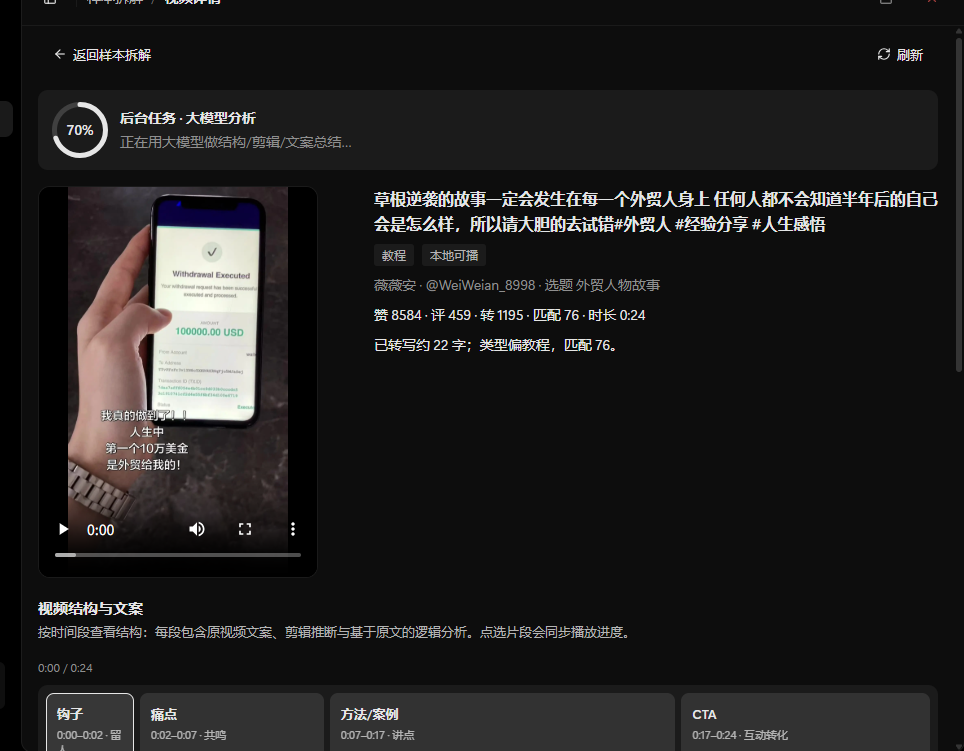
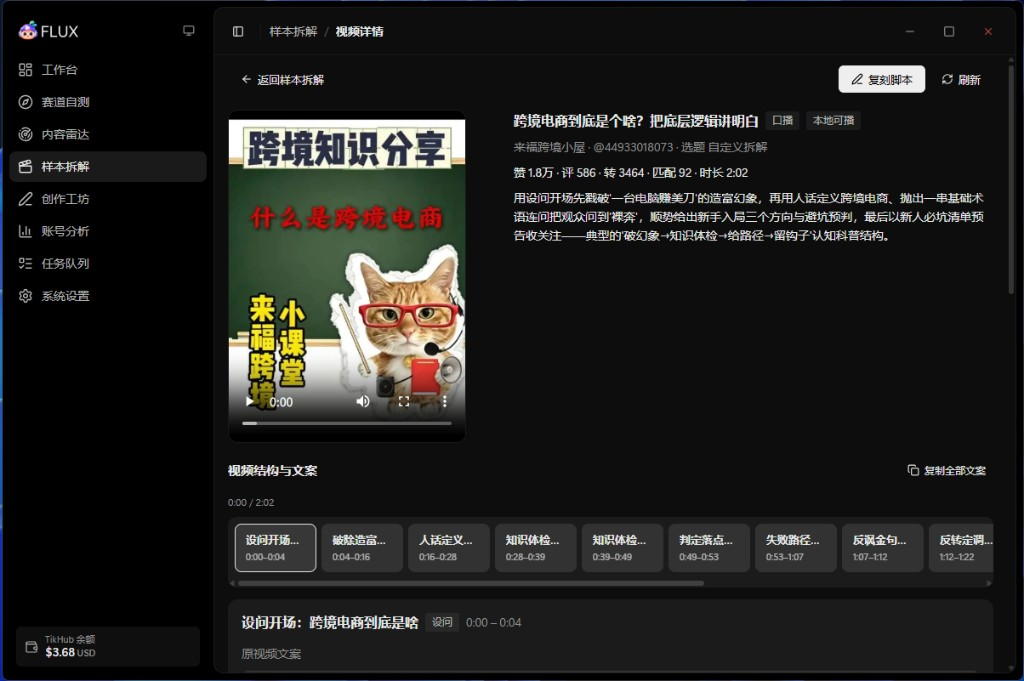
Replace README screenshots with full product UI captures.
Use complete workbench, track, dissect, and workshop shots provided by the user.

diff --git a/README.md b/README.md
@@ -38,29 +38,29 @@ Flux 帮助你把「账号理解 → 赛道判断 → 内容监听 → 选题沉
 
 ## 软件截图
 
-### 内容雷达
+### 工作台
 
-监听对标账号与平台热榜，按「全部 / 高表现 / 新作 / 平台热榜」筛选，并可直接拆解。
+汇总选题、自测、拆解进度与近作表现，一眼看到下一步该做什么。
 
-![内容雷达](docs/screenshots/radar.png)
-
-监听规则可配置高表现阈值、新作窗口、热榜关键词与自动同步。
-
-![监听规则](docs/screenshots/radar-rules.png)
+![工作台](docs/screenshots/workbench.png)
 
 ### 赛道自测
 
-结合账号成分与抖音搜索样本，推荐细分赛道并一键添加选题。
+分析账号成分，推荐细分赛道，并一键添加选题。
 
 ![赛道自测](docs/screenshots/track.png)
 
 ### 样本拆解
 
-按选题筛选样本，下载到本地播放；转写原文后由大模型拆结构、剪辑与文案。
+本地下载播放样本视频，转写原文后由大模型拆结构、剪辑与文案。
 
-![样本拆解详情](docs/screenshots/dissect.png)
+![样本拆解](docs/screenshots/dissect.png)
 
-![样本播放与转写](docs/screenshots/dissect-player.png)
+### 创作工坊
+
+根据拆解思路生成可拍口播脚本，分段编辑与复用。
+
+![创作工坊](docs/screenshots/workshop.png)
 
 ---
 
